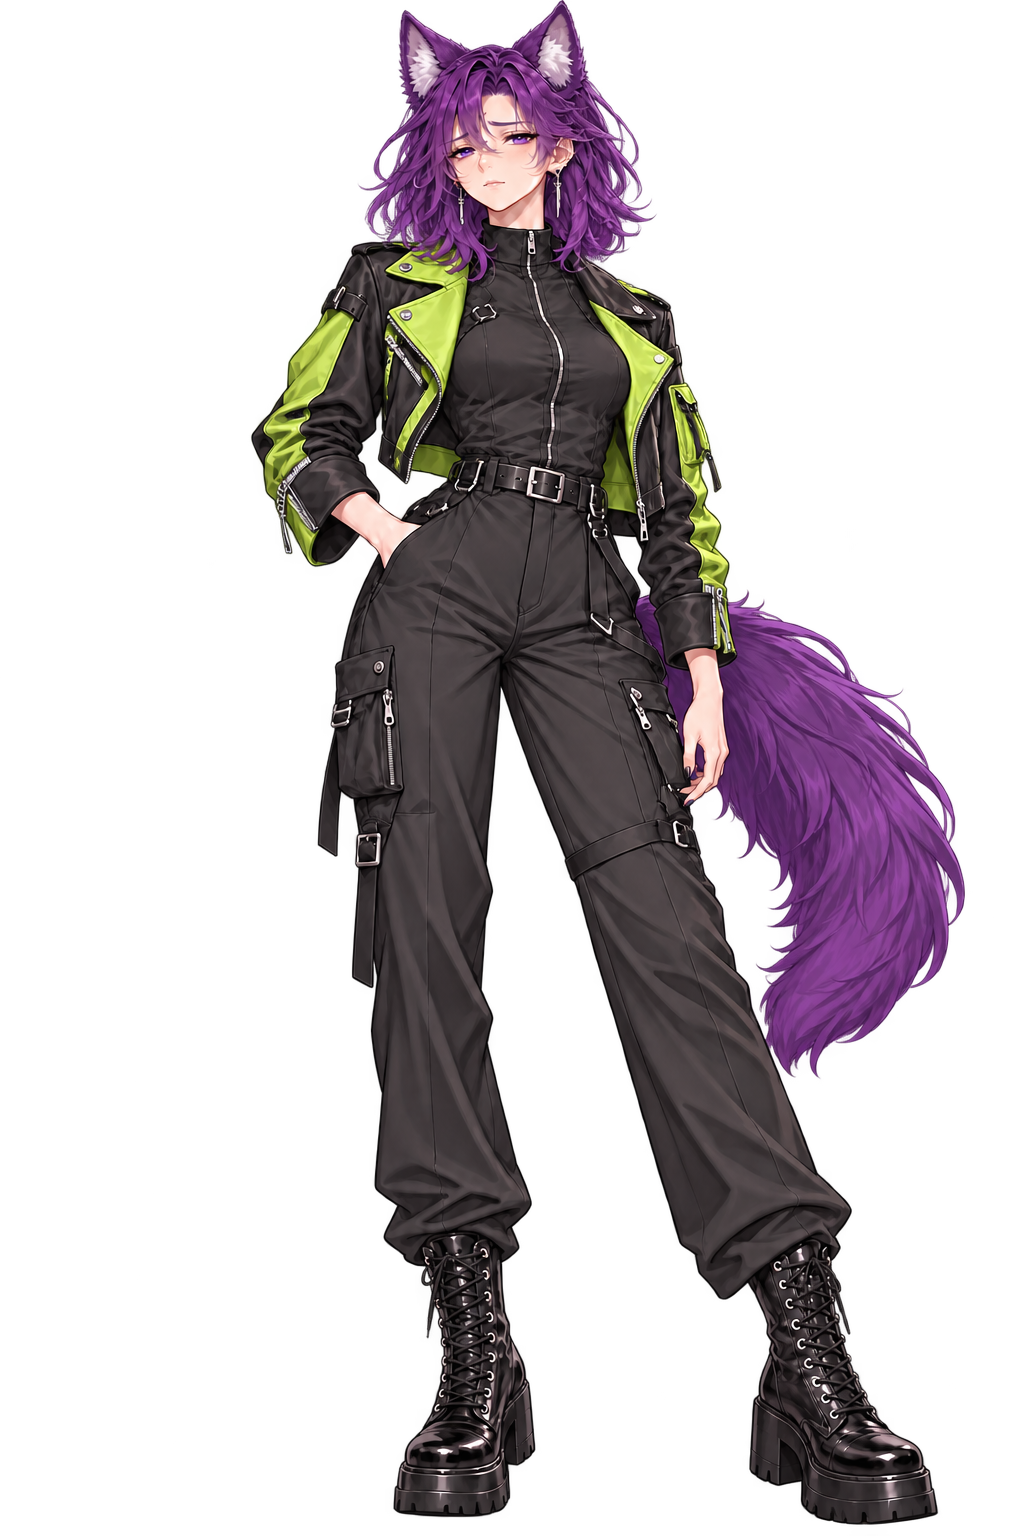
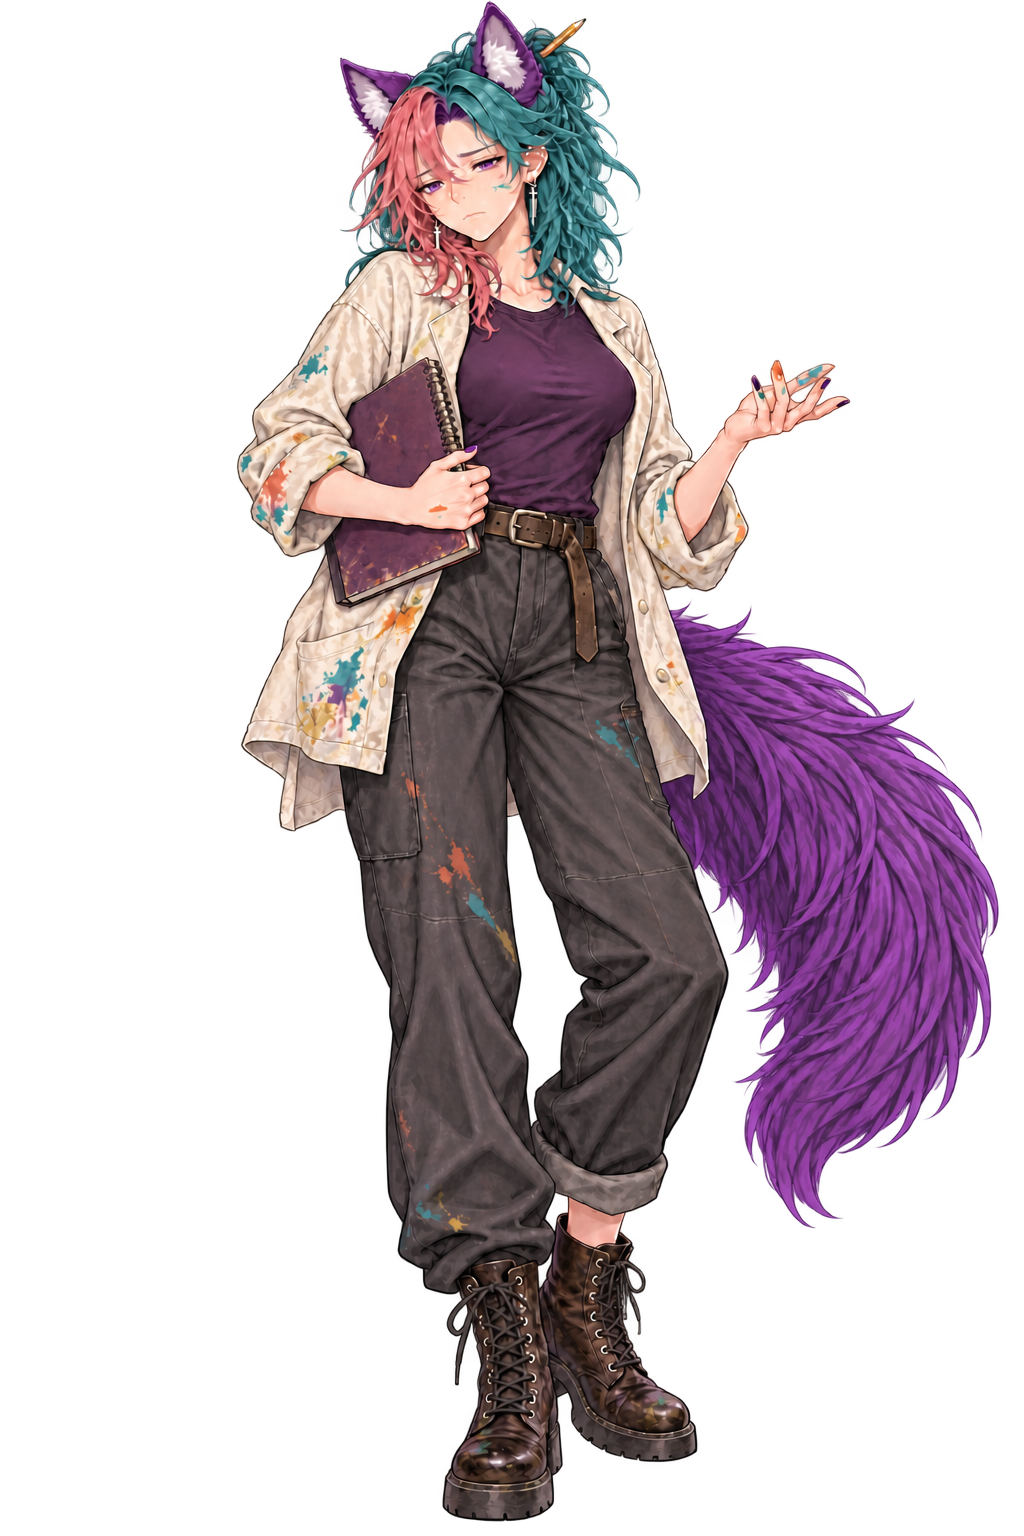
Replace Unhinged Vex with approved artist expression set

diff --git a/Nemo Engine/assets/vex/README.md b/Nemo Engine/assets/vex/README.md
@@ -32,7 +32,7 @@ The selected personality chooses the image set. Her reaction chooses an expressi
 - **Tactical:** uses `tactical/`, with a practical purple braid, olive field jacket, charcoal high-neck shirt, reinforced graphite cargo trousers, black field boots, wristwatch, canvas pouch, map board and pencil, wolf ears, and a fluffy wolf tail. All nine intended expressions are available as transparent 1024 × 1536 full-body PNGs: neutral, amused, delighted, thoughtful, skeptical, surprised, concerned, sad, and annoyed. Her reactions retain watchful competence, analytical focus, and restrained emotion.
 - **Tsundere:** uses `tsundere/`, with a long purple side ponytail, silver clasp and earrings, cherry-red cropped jacket and rose pin, black ribbed top, charcoal houndstooth wrap skirt, dark tights, burgundy ankle boots, wolf ears, and a fluffy wolf tail. All nine intended expressions are available as transparent 1024 × 1536 full-body PNGs: neutral, amused, delighted, thoughtful, skeptical, surprised, concerned, sad, and annoyed. Her reactions retain guarded pride, hidden warmth, and moments of vulnerability.
 - **Underdog:** uses `underdog/`, with a practical purple low ponytail, faded indigo denim chore jacket with tan elbow patches, burgundy henley, charcoal straight-leg jeans, fingerless gloves, and worn brown boots, purple wolf ears, and a fluffy wolf tail. All nine intended expressions are available as transparent 1024 × 1536 full-body PNGs: neutral, amused, delighted, thoughtful, skeptical, surprised, concerned, sad, and annoyed. Her reactions retain resilience, practical warmth, and earned confidence.
-- **Unhinged:** uses `unhinged/`, with a shaggy purple bob, acid-lime and black biker jacket, charcoal utility jumpsuit, silver hardware, and black lace-up boots, purple wolf ears, and a fluffy wolf tail. All nine intended expressions are available as transparent 1024 × 1536 full-body PNGs: neutral, amused, delighted, thoughtful, skeptical, surprised, concerned, sad, and annoyed. Her reactions retain targeted intensity, sharp humor, and volatile honesty.
+- **Unhinged:** uses `unhinged/`, with teal dyed hair with a broad coral section and visible violet roots, a messy half-up knot and pencil, an ivory paint-marked artist smock, plum top, charcoal work trousers, worn brown lace-up boots, a plum sketchbook, purple wolf ears, and a full purple wolf tail. The project owner approved this artist design to express unconstrained creativity, experimental ideas, and spontaneous enthusiasm. All nine intended expressions are available as transparent 1024 × 1536 full-body PNGs: neutral, amused, delighted, thoughtful, skeptical, surprised, concerned, sad, and annoyed.
 - **Whimsical:** uses `whimsical/`, with a thick purple side braid, dusty-teal tailcoat, ivory high-neck blouse, plum waistcoat and skirt, dark tights, teal ankle boots, and a rose-gold moon pin, purple wolf ears, and a fluffy wolf tail. All nine intended expressions are available as transparent 1024 × 1536 full-body PNGs: neutral, amused, delighted, thoughtful, skeptical, surprised, concerned, sad, and annoyed. Her reactions retain curiosity, gentle wonder, and playful attention.
 - **Goon Gremlin:** uses `goon-gremlin/`, with a purple half-up bun with long loose waves, oversized magenta hoodie with cyan lining, black shirt and cargo joggers, and black-and-cyan high-top shoes, purple wolf ears, and a fluffy wolf tail. All nine intended expressions are available as transparent 1024 × 1536 full-body PNGs: neutral, amused, delighted, thoughtful, skeptical, surprised, concerned, sad, and annoyed. Her reactions retain mischief, playful confidence, and lively enthusiasm.
 - **Gooner:** uses `gooner/`, with long purple waves, a deep-magenta longline blazer, opaque black high-neck blouse, black wide-leg trousers, a narrow silver belt, geometric lapel pin, and dark-plum heeled ankle boots, purple wolf ears, and a fluffy wolf tail. All nine intended expressions are available as transparent 1024 × 1536 full-body PNGs: neutral, amused, delighted, thoughtful, skeptical, surprised, concerned, sad, and annoyed. Her reactions retain focused confidence, knowing warmth, and an expressive emotional range.
@@ -48,7 +48,7 @@ The selected personality chooses the image set. Her reaction chooses an expressi
 4. Supply `neutral` first. Set the set's status to `partial` while adding expressions, or `ready` when its intended set is complete. Update `assetVersion` whenever artwork or mappings change.
 5. Record artist/source, usage permission, and any required attribution in `CREDITS.md`.
 
-All 30 current image sets use nine expressions: neutral, amused, delighted, thoughtful, skeptical, surprised, concerned, sad, and annoyed. `intendedExpressions` records the complete target set; other optional slots may remain null even when a set is ready. Exact generation prompts and image hashes for Tsundere and the final five sets are preserved in [`generation/v0.27.0.json`](generation/v0.27.0.json).
+All 30 current image sets use nine expressions: neutral, amused, delighted, thoughtful, skeptical, surprised, concerned, sad, and annoyed. `intendedExpressions` records the complete target set; other optional slots may remain null even when a set is ready. Generation prompts and image hashes for the original 0.27.0 catalog are preserved in [`generation/v0.27.0.json`](generation/v0.27.0.json). The approved Unhinged artist revision and its nine expressions are recorded in [`generation/v0.28.0.json`](generation/v0.28.0.json).
 
 Other common expression slots: happy, excited, playful, smug, angry, embarrassed, weary. Not every personality needs every slot. Additional expressions can be registered explicitly. The manifest includes aliases for pensive, grinning, pouting, hurt, and faint-smile; expand these into distinct portraits later if useful.
 

diff --git a/Nemo Engine/assets/vex/CREDITS.md b/Nemo Engine/assets/vex/CREDITS.md
@@ -216,9 +216,10 @@
 
 - Files: `unhinged/neutral.png`, `unhinged/amused.png`, `unhinged/delighted.png`, `unhinged/thoughtful.png`, `unhinged/skeptical.png`, `unhinged/surprised.png`, `unhinged/concerned.png`, `unhinged/sad.png`, `unhinged/annoyed.png`.
 - Character and creative direction: Noah / NemoVonNirgend.
-- Source: generated with ChatGPT image generation using the supplied Vex identity reference, then edited from this set’s neutral base to create the remaining expressions. The set preserves a shaggy purple bob, acid-lime and black biker jacket, charcoal utility jumpsuit, silver hardware, and black lace-up boots, wolf ears, and a fluffy tail across all nine expressions.
+- Approved direction: unconstrained creativity, experimental artistry, and spontaneous imagination. The project owner approved the artist sample and its teal/coral hair dye before expression generation.
+- Source: generated with ChatGPT image generation, then edited from the approved neutral to create eight matching expressions. The set preserves teal dyed hair with a broad coral section and visible violet roots, a messy half-up knot and pencil, an ivory paint-marked artist smock, plum top, charcoal work trousers, worn brown lace-up boots, a plum sketchbook, purple wolf ears, and a full purple wolf tail across all nine expressions.
 - Publication: uploaded as part of the project owner’s requested Vex asset-set workflow. No separate third-party artwork license is asserted here.
-- Format: full-body transparent PNG, 1024 × 1536. This is Unhinged’s own image set; scene emotion does not switch her personality or costume.
+- Format: full-body transparent PNG, 1024 × 1536. Scene emotion does not switch her personality, costume, hair dye, or props. Exact prompts and hashes are recorded in `generation/v0.28.0.json`.
 
 ## Whimsical Vex
 
